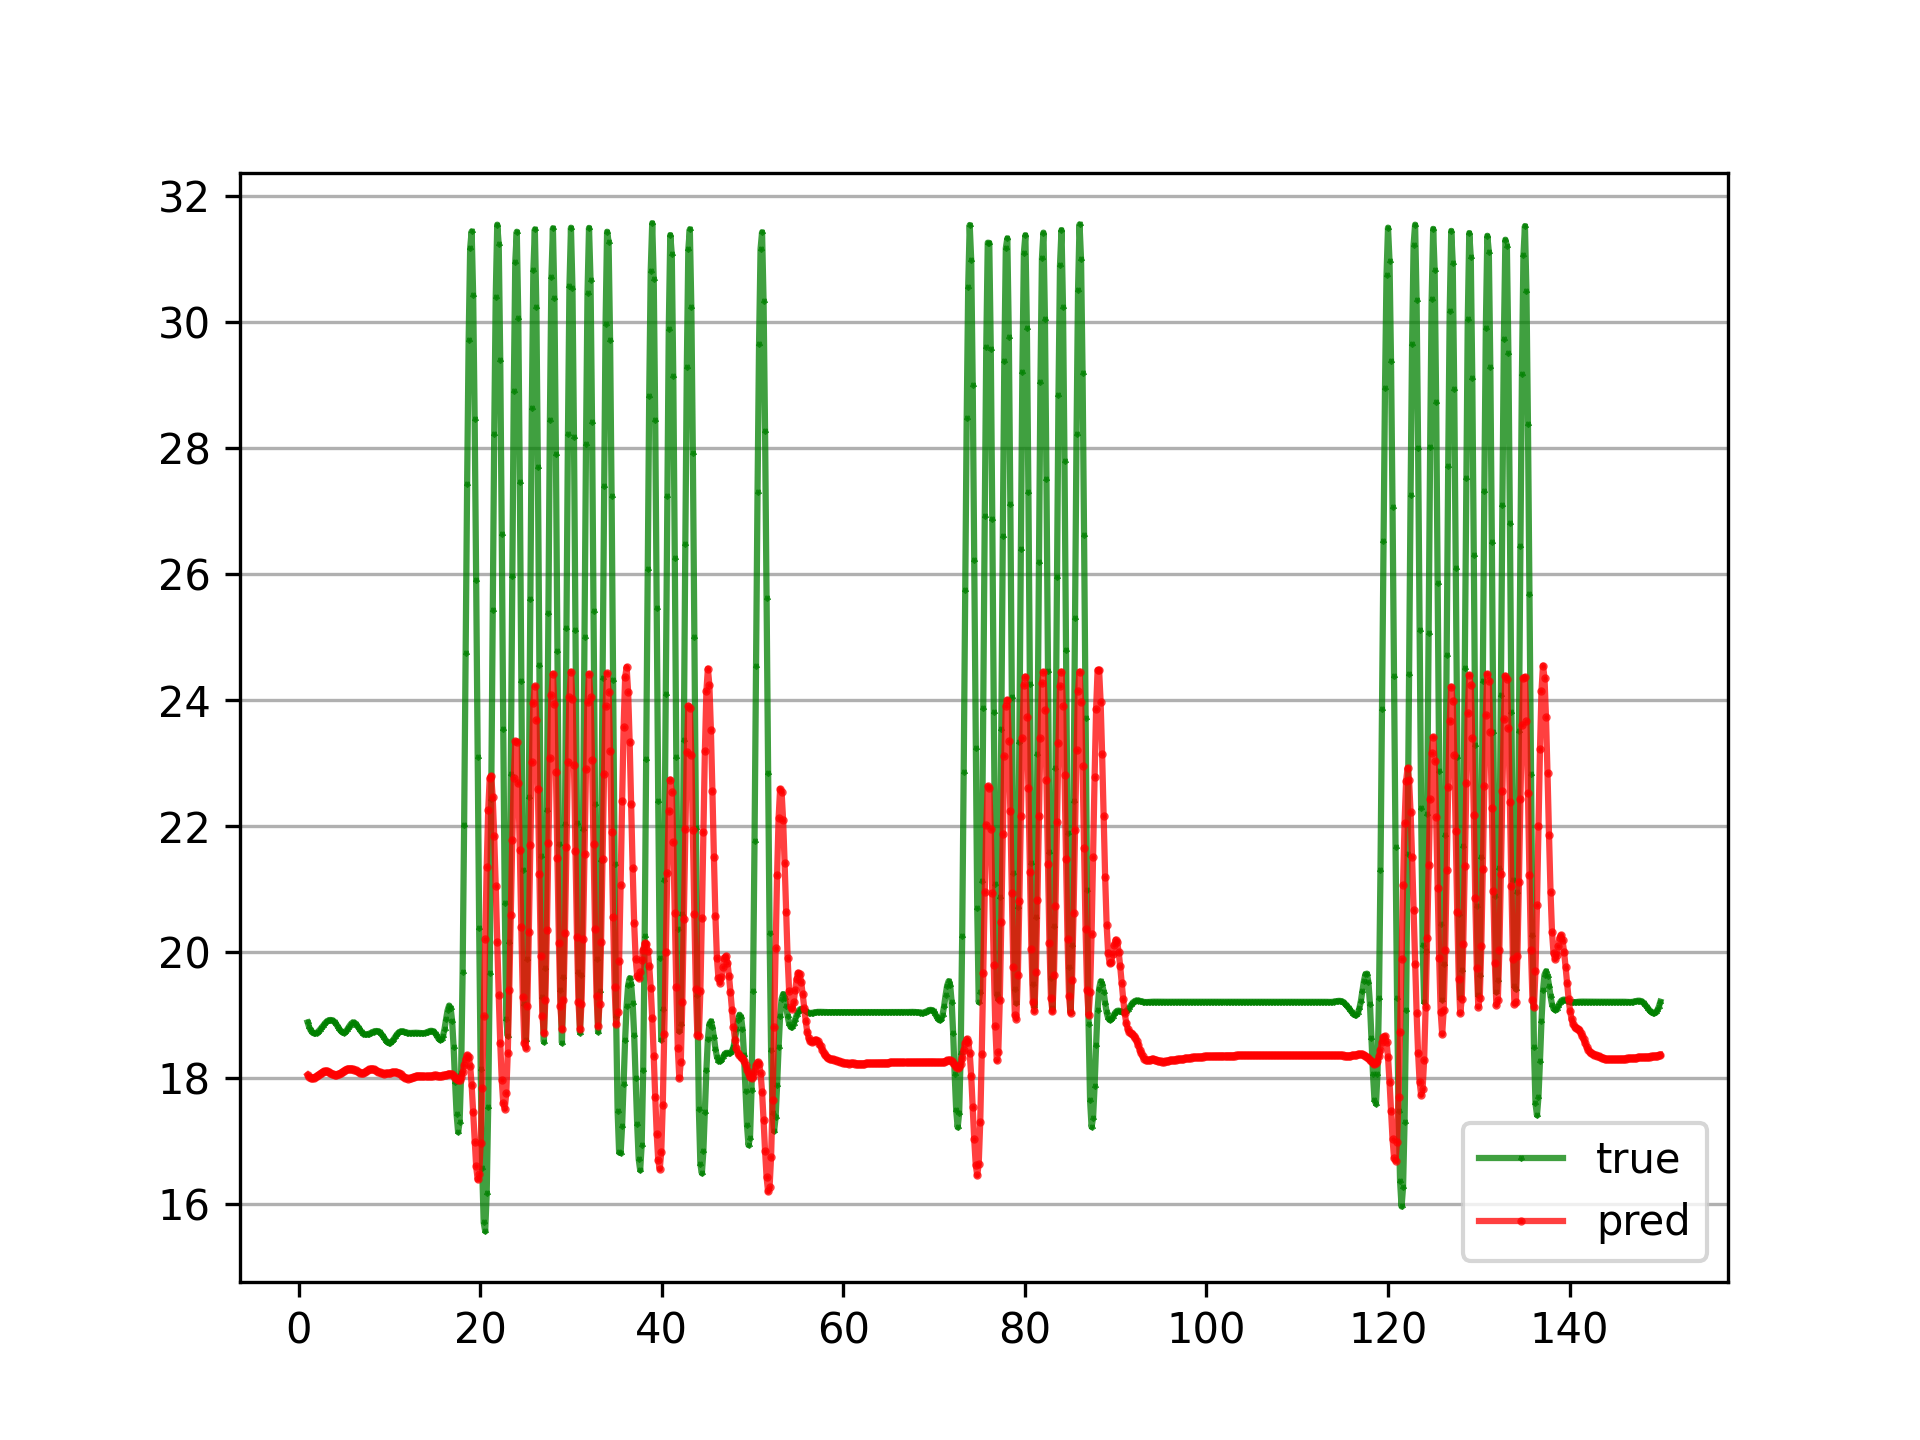
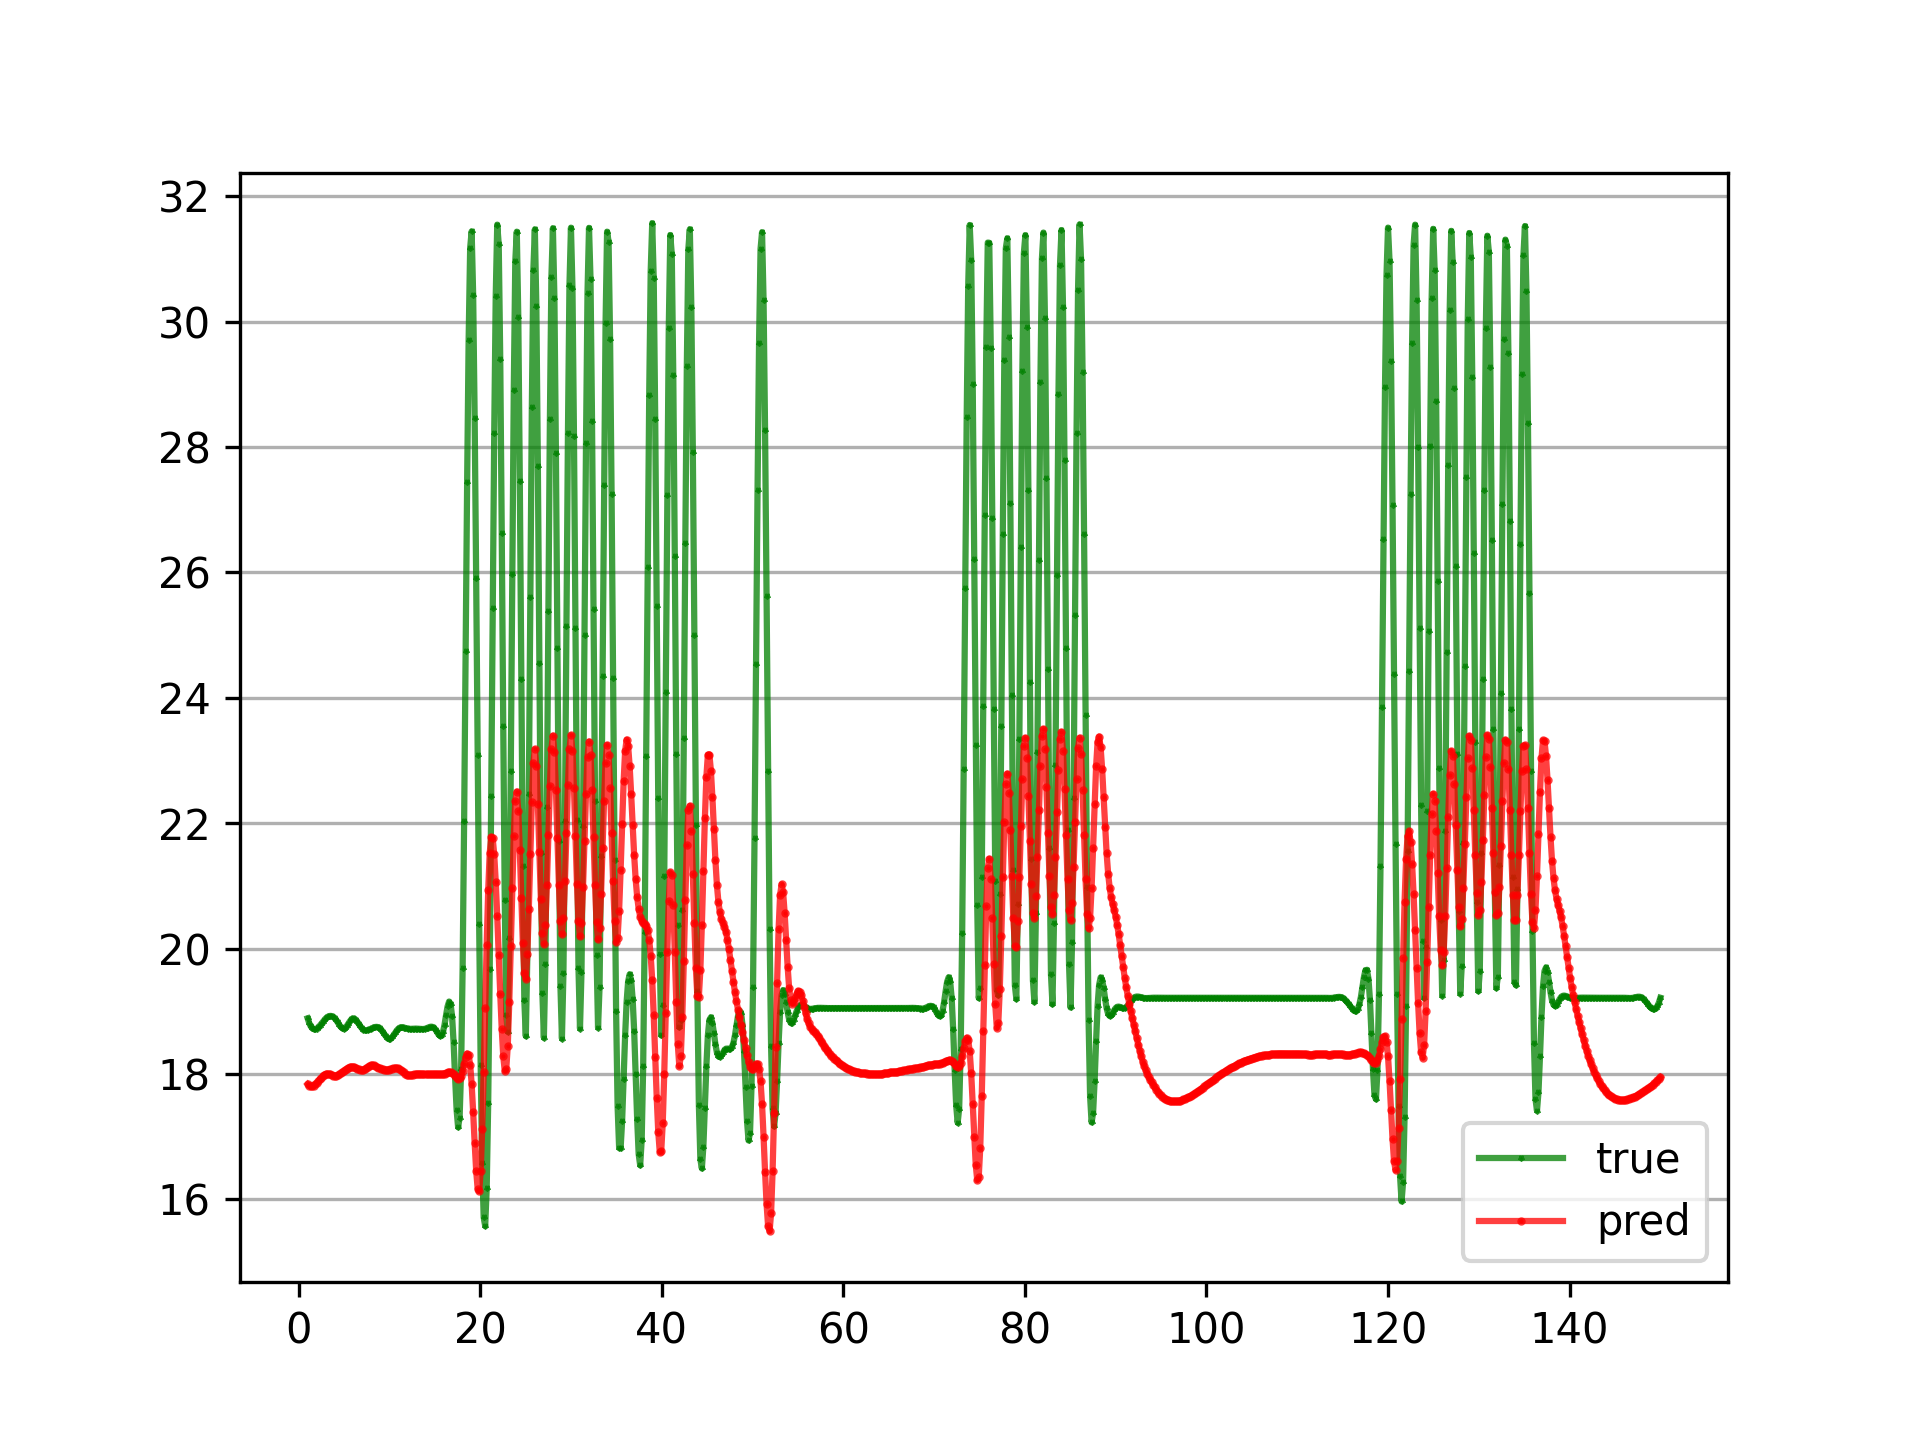
fix

Changed region(s): [[0.0625, 0.4688, 0.9062, 0.8438], [0.0625, 0.4688, 0.125, 0.5], [0.0938, 0.375, 0.125, 0.4062]]

diff --git a/app/ml_engine.py b/app/ml_engine.py
@@ -33,12 +33,12 @@ class MLEngine:
             from app.models.lstm import Net
             self.model = Net(input_size=len(self.model_config['input_columns']),
                                 hidden_size=self.model_config['hidden_size'],
-                                output_size=len(self.model_config['output_size'])).to(self.device)
+                                output_size=len(self.model_config['output_columns'])).to(self.device)
 
         elif self.model_config['model_type'] == 'Regression':
             from app.models.regression import Regression
             self.model = Regression(input_size=len(self.model_config['input_columns']),
-                                    output_size=len(self.model_config['output_size']))
+                                    output_size=len(self.model_config['output_columns']))
 
         else:
             # todo: other model type
@@ -61,7 +61,7 @@ class MLEngine:
                                 seq_len=self.model_config['seq_len'], 
                                 batch_size=self.model_config['batch_size'],
                                 flag=self.model_config['flag'], 
-                                output_size=self.model_config['output_size'],
+                                output_size=len(self.model_config['output_columns']),
                                 input_columns=self.model_config['input_columns'],
                                 output_columns=self.model_config['output_columns'])
 
